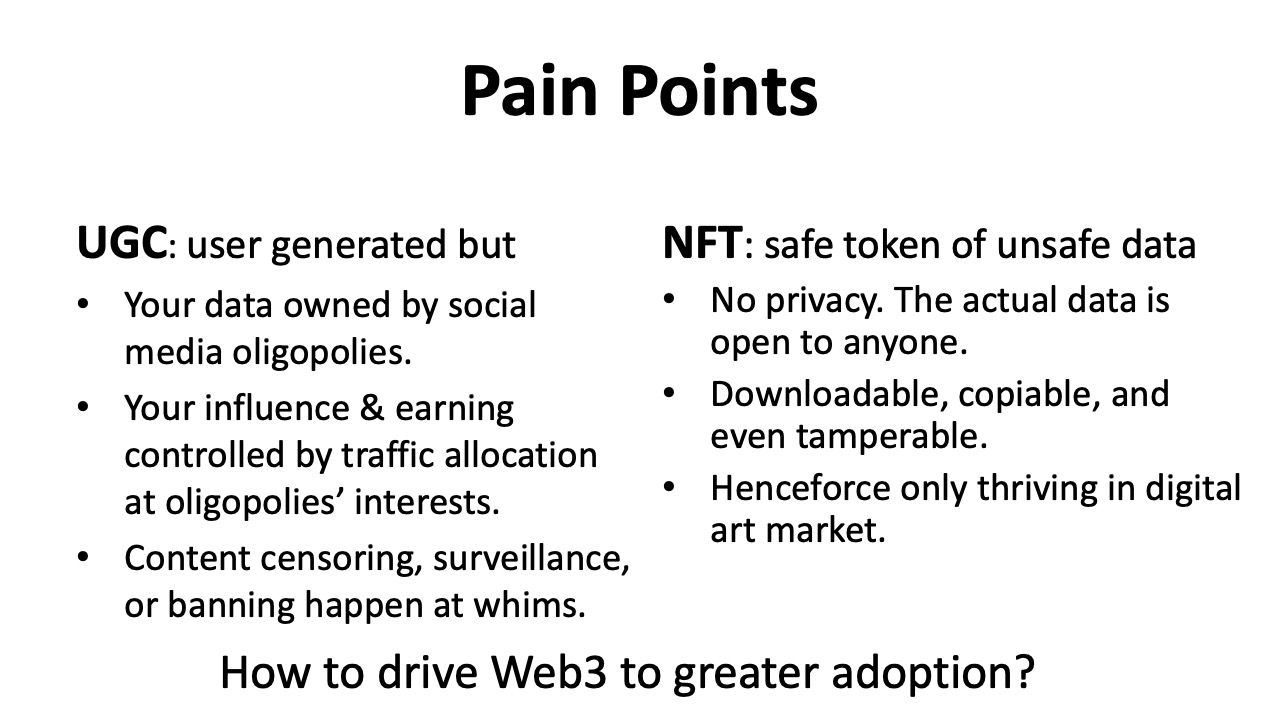
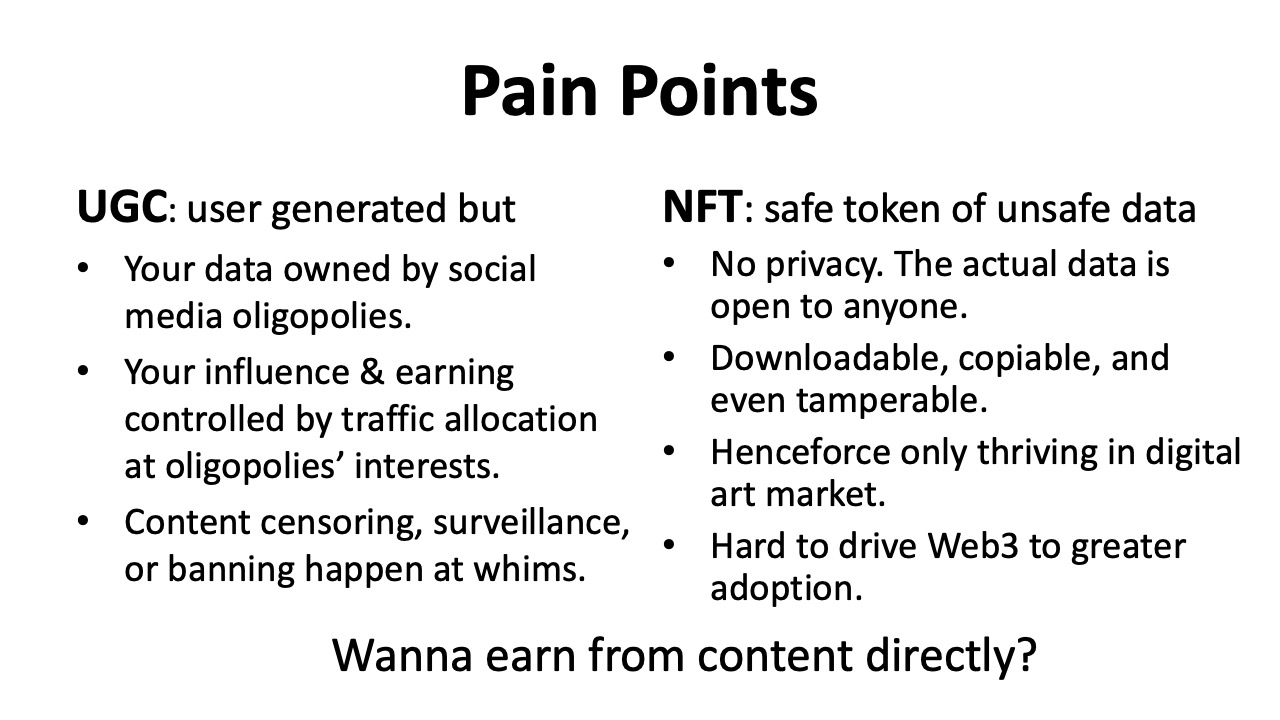
update

Changed region(s): [[0.0625, 0.2444, 0.9688, 0.8556], [0.1562, 0.8861, 0.8125, 0.9778]]

diff --git a/whitepaper.md b/whitepaper.md
@@ -1,12 +1,12 @@
-# Babelyx - Smart Market of Soverein Contents
+# Babelyx - Smart Market of Your Content
 
 [🎁 Claim your reward and step in Babelyx now!](https://u.babelyx.com/)
 
-What wonders can arise when UGC embraces Web3? **Babelyx** , the Babel Tower for everyone's possibilities, mints any possible UGC to encrypted Sovereign Assets that autonomously circulate in the Smart Market, continuously increasing every participant's passive incomes and perpetual rights.
+What wonders can arise when UGC embraces Web3? **Babelyx** , the Tower of Babel for everyone's possibilities, mints any possible content into encrypted Sovereign Assets that autonomously circulate in the Smart Market, continuously increasing every participant's passive incomes and perpetual rights.
 
 ### What is Babelyx?
 
-**Babelyx** is the Babel Tower for everyone's possibilities.
+**Babelyx** is the Tower of Babel for everyone's possibilities.
 
 ![Image](./images/pitchdeck/Slide1.jpeg)
 
@@ -20,21 +20,23 @@ In Eastern Buddhism, there's also the concept of **Three Thousand Great Thousand
 
 ![Image](./images/pitchdeck/Slide2.jpeg)
 
-We all know that what you post on the internet does not truly belong to you, but rather to social media oligopolies like Facebook, TikTok, X, and other centralized platforms. Your influence and earning are entirely reliant on the traffic allocation at their interests. Content censoring, surveillance, blockade, or outright banning can happen at the whim of their operators.
+We all know that what you post on the internet does not truly belong to you, but rather to social media oligopolies like Facebook, TikTok, X, and other centralized platforms. Your revenue does not come from your content, but rather from attracting sufficient traffic at first through your content, which then allows you to engage in sales, advertising, and other business activities to earn profits. All of this depends entirely on the traffic allocation by social media platforms at their interests. Content censoring, surveillance, blockade, or outright banning can happen at the whim of their operators.
 
 This is why Web3 emerged. Especially, since its rise in 2021, NFT technology has garnered significant attention, transforming digital content into unique assets and forging direct, intimate connections between creators, fans, sponsors, and investors. (See [NFTs: Empowering Creators in the Digital World](https://learn.metamask.io/lessons/nfts-and-creators))
 
-However, **NFTs are merely "safe token of unsafe data"**. While the NFTs themselves are unreplicable and tamper-proof through blockchain technology, the actual data behind NFT is still as vulnerable as traditional internet (Web2) content, lacking privacy protection and being accessible, copyable and even tamperable by anyone. This vulnerability limits the application scenarios of NFT technology. Up until now, NFT is primarily only thriving in the digital art market.
+However, **NFTs are merely "safe token of unsafe data"**. While the NFTs themselves are unreplicable and tamper-proof through blockchain technology, the actual data behind NFT is still as vulnerable as traditional internet (Web2) content, lacking privacy protection and being accessible, copyable and even tamperable by anyone. This vulnerability limits the application scenarios of NFT technology. Up until now, NFT is primarily only thriving in the digital art market. Moreover, the high technical barrier severely hinders the user experience for average users, preventing the wider adoption of Web3.
 
-To resolve these pain points for pushing Web3 to greater adoption, we invented the BLX technology and launched Babelyx.
+Is it ever possible to address these pain points, turning content into a source of income and enable more possibilities for everyone?
+
+Yes, we can! For more possibilities for everyone, we invented the BLX technology and launched Babelyx.
 
 ### What Does Babelyx?
 
-Babelyx mints any possible UGC into **Sovereign Assets** that autonomously circulate in the **Smart Market** to perpetually increase every participant's **Passive Income**, unleashing infinite possibilities for everyone.
+Babelyx transforms any possible content into **Sovereign Assets** that autonomously circulate in the **Smart Market** to perpetually increase every participant's **Passive Income**, unleashing infinite possibilities for everyone.
 
 As a user, by creating any content you get an encrypted asset and an autonomous store, bringing you continuous revenue forever.
 
-This is made possible by our patented BLX technology that seamlessly integrates data security of IPFS, digital ownership of NFTs, and smart contracts of Ethereum, along with powerful AIGC technologies, providing you with an unprecedented experience, rights and rewards.
+This is facilitated by our patented BLX technology that seamlessly integrates data security of IPFS, digital ownership of NFTs, and smart contracts of Ethereum, along with powerful AIGC technologies, providing you with an unprecedented experience, rights and rewards.
 
 ![Image](./images/pitchdeck/Slide3.jpeg)
 
@@ -45,8 +47,10 @@ Babelyx features:
 User-generated content is minted to Sovereign Content Assets by following steps:
 
 1. At first the actual content is stored in the decentralized content-addressing system IPFS;
-2. Then, hash addresses of the content and their stakeholders are encrypted into a "Sovereign Content Certificate" and stored in IPFS;
-3. Finally, the certificate pointing to the encrypted content is minted into a "Sovereign Content Token" on a blockchain. The token upgrades NFT to Safe NFT, ensuring not only the safe ownership, but also the safe content, constituting an inseparable whole.
+2. Then, hash addresses of the content and their stakeholders are encrypted into a "**Sovereign Content Certificate**" and stored in IPFS;
+3. Finally, the certificate pointing to the encrypted content is minted into a "**Sovereign Content Token**" on a blockchain, also known as "Safe NFT" that ensurs not only the safe ownership, but also the safe content, constituting an inseparable whole.
+
+UGC ==> Sovereign Content Certificate in IPFS ==> Sovereign Content Token (Safe NFT) on Blockchain
 
 Through these steps, while the certificate and token remains public, the actual content is fundamentally prevented from unauthorized access, copying, distribution, and tampering. For instance, others must pay a decryption fee to the content owner, to be able to access the actual content through a decentralized mechanism.
 
@@ -54,21 +58,27 @@ Therefore, the sovereign asset not only ensure your ownership, but also goes fur
 
 ##### Smart Market
 
-These Sovereign Assets circulate and appreciate perpetually in the Smart Market, powered by Role Pacts stored in the sovereign content certificates. Role pacts are smart contracts defining rights and benefits of different market roles. Through Role Pacts, the underlying asset can be traded autonomously among various participant roles. For example:
+Babelyx not only transforms user content into a static sovereign asset but also generates a self-running store, thereby creating a smart marketplace. This is powered by Role Pacts that are stored as part of the sovereign content certificates. Role pacts are smart contracts defining rights and benefits of different market roles. Through Role Pacts, the underlying asset can circulate and appreciate automatically among various participant roles, perpetually increasing every participant's revenue. For example:
 
 - **Creator Pact** is an intrinsic part of the sovereign content asset. Once some piece of content is minted, the content creator becomes an indelible, unalterable and permanent property of the sovereign content. In all subsequent appreciation of this asset, the original creator will automatically receive corresponding returns according to the Creator Pact.
 - **Visitor Pact** defines a decryption fee for visitors. Other user must pay the decryption fee to be able to visit the original content. Anyone else cannot decrypt the asset to see, copy or download the actual content. If the creator does't set a decription fee, it's default to 0, henceforce the content is open to public just like in a traditional UGC platform.
 - **Holder Pact** defines a purchase fee for buyers. A user who pays the purchase fee becomes a "holder" of a certain share of the asset. Holding rights apply to limited-supply shareable assets such as book copies, movie tickets, membership statuses, restaurant seats, rental time slots, etc. Users can transfer their limited slots at new prices to other holders, promoting sharing, circulation, and appreciation.
-- **Owner Pact** keeps track of the current owner of the asset and the buyout price for full ownership. Other users can acquire the asset by purchasing it outright, becoming the new owner. Each asset can only belong to one owner at any given time. The access, holding, rental, and other revenue from the asset are mainly enjoyed by its current owner.
+- **Owner Pact** keeps track of the current owner of the asset and the buyout price for full ownership. Other users can acquire the asset by purchasing it outright, becoming the new owner. Each asset can only belong to one owner at any given time. The majority of the asset's revenue is enjoyed by its current owner.
 - More pacts: Beyond these roles, assets can have more detailed or extended roles such as agents, operators, renters, and more, just like in the real-world.
 
-Thus, Role Pacts turn user content to a perpetual self-running store. Without stakeholders' intervention, the asset can circulate and appreciate among different market roles, providing long-term stable income for stakeholders and maintaining high enthusiasm for various user types.
+Thus, Role Pacts transforms user content to a perpetual self-running store supporting the asset to circulate and appreciate among different market roles automatically, providing long-term revenue for all stakeholders and maintaining high enthusiasm for various user types.
+
+##### Passive Income
 
 ##### AI-Assisted Creation
 
 Have you ever been stuck in a creative rut, unable to find inspiration despite racking your brains? Don't worry, our AI assistant is always on standby, providing a wisdom-filled inspiration booster. With AI's creative assistance, you will continuously spark new ideas, connecting seemingly unrelated dots into the most brilliant pictures, bringing words to life on paper and making videos more vivid and moving.
 
-##### Use Scenarios
+### Who uses Babelyx?
+
+**Babelyx is for everyone who owns content & wants more possibilites from it.**
+
+You can be a student, a gamer, a traveller, a designer, or anyone who had post something on the internet but with no return or losing control of your own content. Try Babelyx now, you'll get more possibilities than ever.
 
 Building on our technology and products, we collaborate with partners across various industries and sectors to expand a rich array of application scenarios and business models. We can enhance traditional internet applications or create entirely new decentralized applications.
 

diff --git a/README.md b/README.md
@@ -8,12 +8,12 @@
 - [How to](./howto/)
   - [create an Aipp?](./howto/create-aipp.md)
 
-Talk is cheap, show me the app! [Join Babelyx now!](https://u.babelyx.com)
+Talk is cheap, show me the app! [Step in Babelyx now!](https://u.babelyx.com)
 
 Please search and follow [Babelyx on various platforms.](https://links.babelyx.com)
 
-We'd love to hear from you! Contact us: [hi@babelyx.com](mailto:hi@babelyx.com)
+We'd love to hear from you! Send us an email to [hi@babelyx.com](mailto:hi@babelyx.com) or [leave a message here](https://csr.aippia.com)
 
 ---
 
-🌐 Looking for local services in China? Take a look at [巴贝历 - 中国区](https://lib.cn.babelyx.com)
+🌐 寻找中国区服务？请访问 [巴贝历 - 中国区](https://lib.cn.babelyx.com)

diff --git a/home.md b/home.md
@@ -8,12 +8,12 @@
 - [How to](./howto/)
   - [create an Aipp?](./howto/create-aipp.md)
 
-Talk is cheap, show me the app! [Join Babelyx now!](https://u.babelyx.com)
+Talk is cheap, show me the app! [Step in Babelyx now!](https://u.babelyx.com)
 
 Please search and follow [Babelyx on various platforms.](https://links.babelyx.com)
 
-We'd love to hear from you! Contact us: [hi@babelyx.com](mailto:hi@babelyx.com)
+We'd love to hear from you! Send us an email to [hi@babelyx.com](mailto:hi@babelyx.com) or [leave a message here](https://csr.aippia.com)
 
 ---
 
-🌐 Looking for local services in China? Take a look at [巴贝历 - 中国区](https://lib.cn.babelyx.com)
+🌐 寻找中国区服务？请访问 [巴贝历 - 中国区](https://lib.cn.babelyx.com)

diff --git a/howto/monetize-creation.md b/howto/monetize-creation.md
@@ -1,0 +1,11 @@
+# How to transform your content into an asset that provides you with everlasting revenue?
+
+Babelyx transforms every user content to an asset and a store. The asset circulates and appreciates among different market roles, providing long-term stable income for all stakeholders.
+
+This is powered by Role Pacts.
+
+to be continued...
+
+---
+
+**[🔙 Contents Table](../home.md)**
